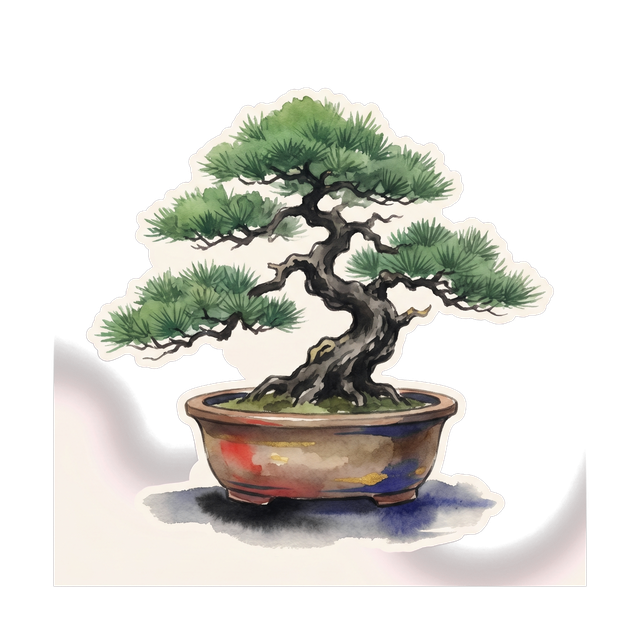
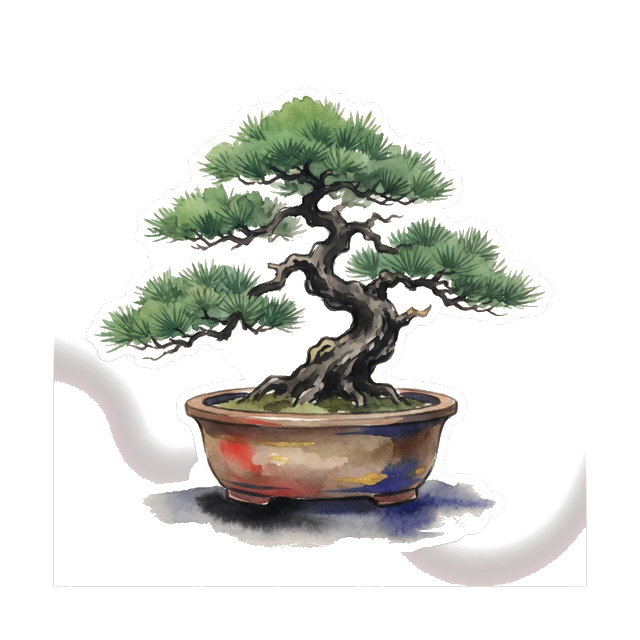
Grammar Garden: living scenery — every spot now animates
- Fix the root execution bug: the geometric SVG fallback was bleeding through
  transparent watercolor PNGs (has-art rule was being overridden), which caused
  the maple "blob", the unrecognizable bonsai, and a muddy torii. Now hidden
  once the PNG loads; scenery opacity bumped 0.62 → 0.9 so the art reads.
- Bamboo → a canvas shishi-odoshi (water clacker): fills, tips, pours, clacks,
  resets. Replaces the cream-boxed bamboo PNG.
- Roaming butterflies (canvas) flit around the bonsai, maple, and torii.
- Wind sway on the plants (CSS), falling leaves on the maple (canvas), drifting
  dappled light on the torii (CSS) — all reduced-motion aware.
- Bonsai PNG: stripped its opaque cream "sticker" background to true
  transparency so it no longer renders as a pale box.

diff --git a/app/shared/garden-stage.js b/app/shared/garden-stage.js
@@ -279,5 +279,290 @@
     return { destroy: pond.destroy };
   }
 
-  window.JPShared.gardenStage = { createPond: createPond, reset: reset };
+  // ── falling leaves ─────────────────────────────────────────────────────
+  // A few leaves drift down + sway over a scenery host (e.g. the maple). Same
+  // ticker / visibility / self-heal contract as the pond.
+  function drawLeaf(ctx, s, color) {
+    ctx.fillStyle = color;
+    ctx.beginPath();
+    ctx.moveTo(0, -s);
+    ctx.quadraticCurveTo(s * 0.8, -s * 0.15, 0, s);
+    ctx.quadraticCurveTo(-s * 0.8, -s * 0.15, 0, -s);
+    ctx.fill();
+    ctx.strokeStyle = 'rgba(60,40,30,0.25)'; ctx.lineWidth = 0.6;
+    ctx.beginPath(); ctx.moveTo(0, -s); ctx.lineTo(0, s); ctx.stroke();
+  }
+
+  function makeLeaf(W, H, colors, mid) {
+    return {
+      x: rand(W * 0.15, W * 0.9),
+      y: mid ? rand(-H * 0.2, H) : rand(-H * 0.35, -6),
+      vy: rand(H * 0.09, H * 0.18),
+      sway: rand(W * 0.04, W * 0.11),
+      ph: rand(0, Math.PI * 2),
+      psp: rand(0.6, 1.3),
+      rot: rand(0, Math.PI * 2),
+      vrot: rand(-1.4, 1.4),
+      size: Math.max(3.5, W * rand(0.05, 0.08)),
+      color: colors[Math.floor(Math.random() * colors.length)]
+    };
+  }
+
+  function createLeaves(host, opts) {
+    if (!host) return null;
+    opts = opts || {};
+    var colors = opts.colors || ['#c0492e', '#d2691e', '#dd8a2c', '#a83b22', '#c2603a'];
+    var count = opts.count || 5;
+    var canvas = document.createElement('canvas');
+    canvas.className = 'gr-leaf-canvas';
+    canvas.style.cssText = 'position:absolute;inset:0;width:100%;height:100%;pointer-events:none;';
+    host.appendChild(canvas);
+    var ctx = canvas.getContext('2d');
+    var fxo = { host: host, canvas: canvas, ctx: ctx, W: 0, H: 0, leaves: [], visible: true, io: null, sized: false };
+
+    function size() {
+      var r = host.getBoundingClientRect();
+      var w = Math.max(40, Math.round(r.width)), h = Math.max(40, Math.round(r.height));
+      fxo.W = w; fxo.H = h;
+      canvas.width = Math.round(w * DPR); canvas.height = Math.round(h * DPR);
+      ctx.setTransform(DPR, 0, 0, DPR, 0, 0);
+      fxo.leaves = [];
+      for (var i = 0; i < count; i++) fxo.leaves.push(makeLeaf(w, h, colors, true));
+      fxo.sized = true;
+    }
+    fxo.step = function (dt) {
+      for (var i = 0; i < fxo.leaves.length; i++) {
+        var L = fxo.leaves[i];
+        L.y += L.vy * dt; L.ph += L.psp * dt; L.rot += L.vrot * dt;
+        if (L.y > fxo.H + 8) fxo.leaves[i] = makeLeaf(fxo.W, fxo.H, colors, false);
+      }
+    };
+    fxo.draw = function () {
+      if (!fxo.sized) { size(); if (!fxo.sized) return; }
+      ctx.clearRect(0, 0, fxo.W, fxo.H);
+      for (var i = 0; i < fxo.leaves.length; i++) {
+        var L = fxo.leaves[i];
+        ctx.save();
+        ctx.translate(L.x + Math.sin(L.ph) * L.sway, L.y);
+        ctx.rotate(L.rot);
+        ctx.globalAlpha = 0.85;
+        drawLeaf(ctx, L.size, L.color);
+        ctx.restore();
+      }
+    };
+    fxo.destroy = function () {
+      if (fxo.io) { try { fxo.io.disconnect(); } catch (e) {} fxo.io = null; }
+      if (canvas.parentNode) canvas.parentNode.removeChild(canvas);
+    };
+    if (window.IntersectionObserver) {
+      fxo.io = new IntersectionObserver(function (entries) {
+        fxo.visible = entries[0] && entries[0].isIntersecting;
+        if (fxo.visible && !reduce) start();
+      }, { rootMargin: '80px' });
+      fxo.io.observe(host);
+    }
+    ponds.push(fxo);
+    if (reduce) requestAnimationFrame(function () { fxo.draw(); }); else start();
+    return { destroy: fxo.destroy };
+  }
+
+  // ── butterfly ──────────────────────────────────────────────────────────
+  // A butterfly wanders the host area on an eased target-seeking path, wings
+  // flapping. Reads as a creature visiting the plant.
+  var BFLY = [
+    { top: 'rgba(235,130,36,0.96)', bot: 'rgba(198,82,26,0.96)', edge: 'rgba(40,26,14,0.85)' }, // monarch
+    { top: 'rgba(86,140,222,0.95)', bot: 'rgba(52,96,178,0.95)', edge: 'rgba(20,30,64,0.8)' },  // blue
+    { top: 'rgba(244,206,70,0.96)', bot: 'rgba(214,160,40,0.96)', edge: 'rgba(70,48,12,0.85)' } // yellow
+  ];
+  function createButterfly(host, opts) {
+    if (!host) return null;
+    opts = opts || {};
+    var canvas = document.createElement('canvas');
+    canvas.className = 'gr-bfly-canvas';
+    canvas.style.cssText = 'position:absolute;inset:0;width:100%;height:100%;pointer-events:none;';
+    host.appendChild(canvas);
+    var ctx = canvas.getContext('2d');
+    var pal = BFLY[Math.floor(Math.random() * BFLY.length)];
+    var fxo = { host: host, canvas: canvas, ctx: ctx, W: 0, H: 0, visible: true, io: null, sized: false,
+      x: 0, y: 0, tx: 0, ty: 0, flap: rand(0, 6), rest: 0, heading: 0, size: opts.size || 5.5 };
+
+    function newTarget() { fxo.tx = rand(fxo.W * 0.15, fxo.W * 0.85); fxo.ty = rand(fxo.H * 0.12, fxo.H * 0.66); }
+    function size() {
+      var r = host.getBoundingClientRect();
+      fxo.W = Math.max(40, Math.round(r.width)); fxo.H = Math.max(40, Math.round(r.height));
+      canvas.width = Math.round(fxo.W * DPR); canvas.height = Math.round(fxo.H * DPR);
+      ctx.setTransform(DPR, 0, 0, DPR, 0, 0);
+      fxo.x = fxo.W * 0.5; fxo.y = fxo.H * 0.4; newTarget();
+      fxo.sized = true;
+    }
+    fxo.step = function (dt) {
+      fxo.flap += dt * (fxo.rest > 0 ? 4 : 13);
+      if (fxo.rest > 0) { fxo.rest -= dt; return; }
+      var dx = fxo.tx - fxo.x, dy = fxo.ty - fxo.y;
+      var d = Math.hypot(dx, dy) || 1;
+      var sp = Math.min(d, fxo.W * 0.6 * dt);
+      fxo.x += (dx / d) * sp; fxo.y += (dy / d) * sp + Math.sin(fxo.flap * 0.5) * 0.4;
+      fxo.heading = Math.atan2(dy, dx);
+      if (d < 7) { if (Math.random() < 0.4) fxo.rest = rand(0.4, 1.4); newTarget(); }
+    };
+    fxo.draw = function () {
+      if (!fxo.sized) { size(); if (!fxo.sized) return; }
+      ctx.clearRect(0, 0, fxo.W, fxo.H);
+      var open = Math.abs(Math.cos(fxo.flap)) * 0.8 + 0.2; // wing spread (flap)
+      var s = fxo.size;
+      ctx.save();
+      ctx.translate(fxo.x, fxo.y);
+      ctx.rotate(Math.sin(fxo.heading) * 0.25);
+      ctx.lineWidth = 0.7; ctx.lineJoin = 'round';
+      for (var side = -1; side <= 1; side += 2) {
+        ctx.save(); ctx.scale(side * open, 1);
+        // forewing (upper) — rounded triangle
+        ctx.fillStyle = pal.top; ctx.strokeStyle = pal.edge;
+        ctx.beginPath();
+        ctx.moveTo(0, -s * 0.1);
+        ctx.quadraticCurveTo(s * 1.4, -s * 1.3, s * 1.7, -s * 0.2);
+        ctx.quadraticCurveTo(s * 1.1, s * 0.05, 0, -s * 0.1);
+        ctx.closePath(); ctx.fill(); ctx.stroke();
+        // hindwing (lower) — smaller lobe
+        ctx.fillStyle = pal.bot;
+        ctx.beginPath();
+        ctx.moveTo(0, s * 0.05);
+        ctx.quadraticCurveTo(s * 1.15, s * 0.5, s * 0.85, s * 1.15);
+        ctx.quadraticCurveTo(s * 0.3, s * 0.7, 0, s * 0.05);
+        ctx.closePath(); ctx.fill(); ctx.stroke();
+        ctx.restore();
+      }
+      // body
+      ctx.fillStyle = 'rgba(38,30,26,0.92)';
+      ctx.beginPath(); ctx.ellipse(0, 0, s * 0.15, s * 0.9, 0, 0, Math.PI * 2); ctx.fill();
+      // antennae
+      ctx.strokeStyle = 'rgba(38,30,26,0.8)'; ctx.lineWidth = 0.6;
+      ctx.beginPath(); ctx.moveTo(0, -s * 0.7); ctx.quadraticCurveTo(s * 0.5, -s * 1.5, s * 0.75, -s * 1.35);
+      ctx.moveTo(0, -s * 0.7); ctx.quadraticCurveTo(-s * 0.5, -s * 1.5, -s * 0.75, -s * 1.35); ctx.stroke();
+      ctx.restore();
+    };
+    fxo.destroy = function () { if (fxo.io) { try { fxo.io.disconnect(); } catch (e) {} fxo.io = null; } if (canvas.parentNode) canvas.parentNode.removeChild(canvas); };
+    if (window.IntersectionObserver) {
+      fxo.io = new IntersectionObserver(function (e) { fxo.visible = e[0] && e[0].isIntersecting; if (fxo.visible && !reduce) start(); }, { rootMargin: '80px' });
+      fxo.io.observe(host);
+    }
+    ponds.push(fxo);
+    if (reduce) requestAnimationFrame(function () { fxo.draw(); }); else start();
+    return { destroy: fxo.destroy };
+  }
+
+  // ── shishi-odoshi (bamboo water clacker) ───────────────────────────────
+  // The classic deer-scarer: the front cup fills with water, tips forward to
+  // pour, then the back end swings down and clacks on the stone, resetting.
+  function createClacker(host) {
+    if (!host) return null;
+    var canvas = document.createElement('canvas');
+    canvas.className = 'gr-clacker-canvas';
+    canvas.style.cssText = 'position:absolute;inset:0;width:100%;height:100%;pointer-events:none;';
+    host.appendChild(canvas);
+    var ctx = canvas.getContext('2d');
+    var REST = -0.16, POUR = 0.5, CLACK = -0.34;
+    var fxo = { host: host, canvas: canvas, ctx: ctx, W: 0, H: 0, visible: true, io: null, sized: false,
+      angle: REST, fill: 0, phase: 'fill', splash: 0 };
+
+    function size() {
+      var r = host.getBoundingClientRect();
+      fxo.W = Math.max(40, Math.round(r.width)); fxo.H = Math.max(40, Math.round(r.height));
+      canvas.width = Math.round(fxo.W * DPR); canvas.height = Math.round(fxo.H * DPR);
+      ctx.setTransform(DPR, 0, 0, DPR, 0, 0);
+      fxo.sized = true;
+    }
+    fxo.step = function (dt) {
+      if (fxo.splash > 0) fxo.splash -= dt;
+      if (fxo.phase === 'fill') {
+        fxo.fill += dt * 0.32; fxo.angle = REST + fxo.fill * 0.10;
+        if (fxo.fill >= 1) { fxo.fill = 1; fxo.phase = 'pour'; }
+      } else if (fxo.phase === 'pour') {
+        fxo.angle += dt * 3.2; fxo.fill = Math.max(0, fxo.fill - dt * 2.4);
+        if (fxo.angle >= POUR) { fxo.angle = POUR; fxo.phase = 'back'; }
+      } else if (fxo.phase === 'back') {
+        fxo.angle -= dt * 4.5;
+        if (fxo.angle <= CLACK) { fxo.angle = CLACK; fxo.phase = 'settle'; fxo.splash = 0.3; }
+      } else { // settle — ease back up to rest
+        fxo.angle += (REST - fxo.angle) * Math.min(1, dt * 8);
+        if (Math.abs(fxo.angle - REST) < 0.01) { fxo.angle = REST; fxo.phase = 'fill'; fxo.fill = 0; }
+      }
+    };
+    fxo.draw = function () {
+      if (!fxo.sized) { size(); if (!fxo.sized) return; }
+      var W = fxo.W, H = fxo.H;
+      ctx.clearRect(0, 0, W, H);
+      var pivotX = W * 0.56, pivotY = H * 0.52;
+
+      // basin + stone
+      ctx.fillStyle = 'rgba(40,70,80,0.5)';
+      ctx.beginPath(); ctx.ellipse(W * 0.4, H * 0.86, W * 0.34, H * 0.09, 0, 0, Math.PI * 2); ctx.fill();
+      ctx.fillStyle = '#8a8f8c';
+      ctx.beginPath(); ctx.ellipse(W * 0.34, H * 0.78, W * 0.12, H * 0.06, 0, 0, Math.PI * 2); ctx.fill();
+
+      // water source spout (upper right) + stream while filling
+      ctx.strokeStyle = '#6f8f4a'; ctx.lineWidth = Math.max(3, W * 0.04); ctx.lineCap = 'round';
+      ctx.beginPath(); ctx.moveTo(W * 0.92, H * 0.06); ctx.lineTo(W * 0.74, H * 0.16); ctx.stroke();
+      if (fxo.phase === 'fill') {
+        ctx.strokeStyle = 'rgba(180,210,225,0.7)'; ctx.lineWidth = 1.6;
+        ctx.beginPath(); ctx.moveTo(W * 0.73, H * 0.18); ctx.lineTo(W * 0.70, pivotY - H * 0.02); ctx.stroke();
+      }
+
+      // pivot fork
+      ctx.strokeStyle = '#7a5a36'; ctx.lineWidth = Math.max(3, W * 0.045); ctx.lineCap = 'round';
+      ctx.beginPath(); ctx.moveTo(pivotX, pivotY); ctx.lineTo(pivotX - W * 0.04, H * 0.84); ctx.stroke();
+      ctx.beginPath(); ctx.moveTo(pivotX, pivotY); ctx.lineTo(pivotX + W * 0.06, H * 0.84); ctx.stroke();
+
+      // the bamboo tube (pivoted)
+      ctx.save();
+      ctx.translate(pivotX, pivotY); ctx.rotate(fxo.angle);
+      var tubeLen = W * 0.62, tubeR = Math.max(5, W * 0.075), frontX = -tubeLen * 0.6, backX = tubeLen * 0.4;
+      // body
+      ctx.fillStyle = '#9bad5e';
+      roundRect(ctx, frontX, -tubeR, backX - frontX, tubeR * 2, tubeR);
+      ctx.fill();
+      ctx.fillStyle = 'rgba(60,80,30,0.25)'; // shade
+      roundRect(ctx, frontX, tubeR * 0.1, backX - frontX, tubeR * 0.9, tubeR * 0.5); ctx.fill();
+      // node rings
+      ctx.strokeStyle = 'rgba(70,90,35,0.6)'; ctx.lineWidth = 1.4;
+      ctx.beginPath(); ctx.moveTo(frontX + (backX - frontX) * 0.5, -tubeR); ctx.lineTo(frontX + (backX - frontX) * 0.5, tubeR); ctx.stroke();
+      // open front cup + water inside (proportional to fill)
+      ctx.fillStyle = '#43361f';
+      ctx.beginPath(); ctx.ellipse(frontX, 0, tubeR * 0.5, tubeR, 0, 0, Math.PI * 2); ctx.fill();
+      if (fxo.fill > 0.02) {
+        ctx.fillStyle = 'rgba(120,175,195,0.85)';
+        ctx.beginPath(); ctx.ellipse(frontX + tubeR * 0.1, tubeR * (1 - fxo.fill), tubeR * 0.42, tubeR * fxo.fill, 0, 0, Math.PI * 2); ctx.fill();
+      }
+      ctx.restore();
+
+      // pour stream + splash
+      if (fxo.phase === 'pour' && fxo.fill > 0.1) {
+        ctx.strokeStyle = 'rgba(150,195,215,0.7)'; ctx.lineWidth = 2;
+        ctx.beginPath(); ctx.moveTo(pivotX - tubeLen * 0.55, pivotY + tubeLen * 0.25); ctx.lineTo(W * 0.28, H * 0.8); ctx.stroke();
+      }
+      if (fxo.splash > 0) {
+        ctx.globalAlpha = fxo.splash / 0.3; ctx.strokeStyle = 'rgba(210,225,230,0.9)'; ctx.lineWidth = 1.3;
+        ctx.beginPath(); ctx.arc(W * 0.34, H * 0.78, (0.3 - fxo.splash) * W * 0.5 + 3, Math.PI, 2 * Math.PI); ctx.stroke();
+        ctx.globalAlpha = 1;
+      }
+    };
+    function roundRect(c, x, y, w, h, r) {
+      c.beginPath();
+      c.moveTo(x + r, y); c.arcTo(x + w, y, x + w, y + h, r); c.arcTo(x + w, y + h, x, y + h, r);
+      c.arcTo(x, y + h, x, y, r); c.arcTo(x, y, x + w, y, r); c.closePath();
+    }
+    fxo.destroy = function () { if (fxo.io) { try { fxo.io.disconnect(); } catch (e) {} fxo.io = null; } if (canvas.parentNode) canvas.parentNode.removeChild(canvas); };
+    if (window.IntersectionObserver) {
+      fxo.io = new IntersectionObserver(function (e) { fxo.visible = e[0] && e[0].isIntersecting; if (fxo.visible && !reduce) start(); }, { rootMargin: '80px' });
+      fxo.io.observe(host);
+    }
+    ponds.push(fxo);
+    if (reduce) requestAnimationFrame(function () { fxo.draw(); }); else start();
+    return { destroy: fxo.destroy };
+  }
+
+  window.JPShared.gardenStage = {
+    createPond: createPond, createLeaves: createLeaves,
+    createButterfly: createButterfly, createClacker: createClacker, reset: reset
+  };
 })();

diff --git a/Grammar.js b/Grammar.js
@@ -158,11 +158,53 @@ window.GrammarModule = {
         .sk-art { position: absolute; inset: 0; width: 100%; height: 100%; object-fit: contain; pointer-events: none; }
         .has-art > .sk-fallback { display: none; }
 
-        .gr-scenery { width: 84px; height: 84px; pointer-events: none; opacity: 0.62; z-index: 0; position: relative; }
+        .gr-scenery { width: 84px; height: 84px; pointer-events: none; opacity: 0.9; z-index: 0; position: relative; }
         .gr-scenery .sk-fallback, .gr-scenery svg { width: 100%; height: 100%; display: block; }
+        /* Once the PNG loads, hide the geometric SVG fallback. Higher specificity
+           than the .gr-scenery .sk-fallback display:block rule above, which was
+           overriding the generic has-art rule and bleeding the fallback through
+           transparent art (the maple "blob", unrecognizable bonsai, etc.). */
+        .gr-scenery.has-art > .sk-fallback { display: none; }
         /* Living pond — bigger + full opacity since koi swim in it (canvas). */
         .gr-scenery--pond { width: 124px; height: 124px; opacity: 1; }
-        .gr-pond-canvas { display: block; }
+        .gr-scenery--maple { width: 104px; height: 104px; }
+        .gr-scenery--bamboo { width: 116px; height: 124px; opacity: 1; } /* shishi-odoshi canvas */
+        .gr-pond-canvas, .gr-leaf-canvas, .gr-bfly-canvas, .gr-clacker-canvas { display: block; }
+        .gr-bfly-canvas { z-index: 2; } /* butterfly flits above the plant */
+
+        /* Wind sway — pivots at the base. Applied to the ART (not the placed
+           .gr-scenery element, which owns its centering transform, nor the
+           leaf/koi canvas, which animate themselves). */
+        .gr-scenery--sway .gr-scenery-art,
+        .gr-scenery--sway > .sk-fallback {
+          transform-origin: 50% 92%;
+          animation: grSwaySoft 5.2s ease-in-out infinite;
+          animation-delay: var(--sway-delay, 0s);
+        }
+        .gr-scenery--bamboo .gr-scenery-art,
+        .gr-scenery--bamboo > .sk-fallback { animation-name: grSway; animation-duration: 3.4s; }
+        .gr-scenery--bonsai .gr-scenery-art,
+        .gr-scenery--bonsai > .sk-fallback { animation-duration: 6s; }
+        @keyframes grSway { 0%, 100% { transform: rotate(-3deg); } 50% { transform: rotate(3deg); } }
+        @keyframes grSwaySoft { 0%, 100% { transform: rotate(-1.6deg); } 50% { transform: rotate(1.6deg); } }
+
+        /* Torii — soft sunlight dappling drifts across the gate. */
+        .gr-scenery--torii::after {
+          content: ''; position: absolute; inset: 0; pointer-events: none;
+          background:
+            radial-gradient(55% 45% at 32% 28%, rgba(255,246,205,0.6), transparent 62%),
+            radial-gradient(45% 38% at 72% 62%, rgba(255,243,200,0.4), transparent 62%);
+          mix-blend-mode: soft-light;
+          animation: grDapple 7.5s ease-in-out infinite;
+        }
+        @keyframes grDapple {
+          0%, 100% { opacity: 0.4; transform: translate(-4%, -3%) scale(1); }
+          50% { opacity: 0.8; transform: translate(5%, 4%) scale(1.06); }
+        }
+        @media (prefers-reduced-motion: reduce) {
+          .gr-scenery--sway .gr-scenery-art, .gr-scenery--sway > .sk-fallback,
+          .gr-scenery--torii::after { animation: none; }
+        }
 
         /* Base stone the lantern rests on + path stepping-stones. Painted
            watercolor PNG (stone-step.png) layers over the grey-ellipse fallback
@@ -1660,20 +1702,40 @@ window.GrammarModule = {
       //    Koi spots (sIdx 0) become LIVING ponds: a canvas with swimming koi
       //    (gardenStage) instead of the static painting — nudged inward + larger
       //    so the koi are actually visible.
+      // Each scenery TYPE gets its own idle life: koi swim (pond canvas), maple
+      // sheds leaves (canvas) + sways, bamboo/bonsai sway in the wind, torii
+      // catches drifting dappled light. Sway/dapple are CSS; canvases are gardenStage.
+      // koi pond + bamboo water-clacker (shishi-odoshi) are full canvas scenes;
+      // bonsai/torii/maple keep their watercolor PNG and gain life — sway,
+      // falling leaves, a flitting butterfly, dappled light.
+      const SCENERY_TYPE = ['pond', 'bonsai', 'torii', 'bamboo', 'maple'];
+      const SWAYS = { bonsai: 1, maple: 1 };
+      const CANVAS_SPOT = { pond: 1, bamboo: 1 }; // no PNG — drawn entirely
+      const BUTTERFLY = { bonsai: 1, maple: 1, torii: 1 };
       for (let i = 0; i < N; i += 2) {
         const g = visibleGrammars[i];
         const sIdx = sk ? sk.hashIndex(g.id, GARDEN_SCENERY.length) : (i % GARDEN_SCENERY.length);
-        const isPond = (sIdx === 0);
+        const type = SCENERY_TYPE[sIdx] || 'plant';
+        const big = (type === 'pond' || type === 'maple' || type === 'bamboo');
         const right = xPctAt(i) >= 50;
-        const side = right ? (isPond ? 24 : 15) : (isPond ? 76 : 85);
+        const side = right ? (big ? 24 : 15) : (big ? 76 : 85);
         const jitter = sk ? (sk.hashIndexSalted(g.id, 'sy', 5) - 2) * 11 : 0;
-        const scenery = el('div', 'gr-scenery' + (isPond ? ' gr-scenery--pond' : ''));
-        if (isPond && stage) {
+        let cls = 'gr-scenery gr-scenery--' + type;
+        if (SWAYS[type]) cls += ' gr-scenery--sway';
+        const scenery = el('div', cls);
+        if (SWAYS[type] && sk) scenery.style.setProperty('--sway-delay', '-' + (sk.hashIndexSalted(g.id, 'sd', 40) / 10).toFixed(1) + 's');
+
+        if (type === 'pond' && stage) {
           stage.createPond(scenery);
+        } else if (type === 'bamboo' && stage) {
+          stage.createClacker(scenery);
         } else {
           if (sk) scenery.appendChild(sk.artLayer(artUrl(GARDEN_SCENERY_ART[sIdx]), 'gr-scenery-art'));
           scenery.appendChild(el('div', 'sk-fallback', GARDEN_SCENERY[sIdx]));
+          if (type === 'maple' && stage) stage.createLeaves(scenery);
         }
+        // a butterfly visits the plants/gate (not the canvas-only water spots)
+        if (BUTTERFLY[type] && stage && !CANVAS_SPOT[type]) stage.createButterfly(scenery);
         place(scenery, side, lanternTopAt(i) + 30 + jitter);
       }
 